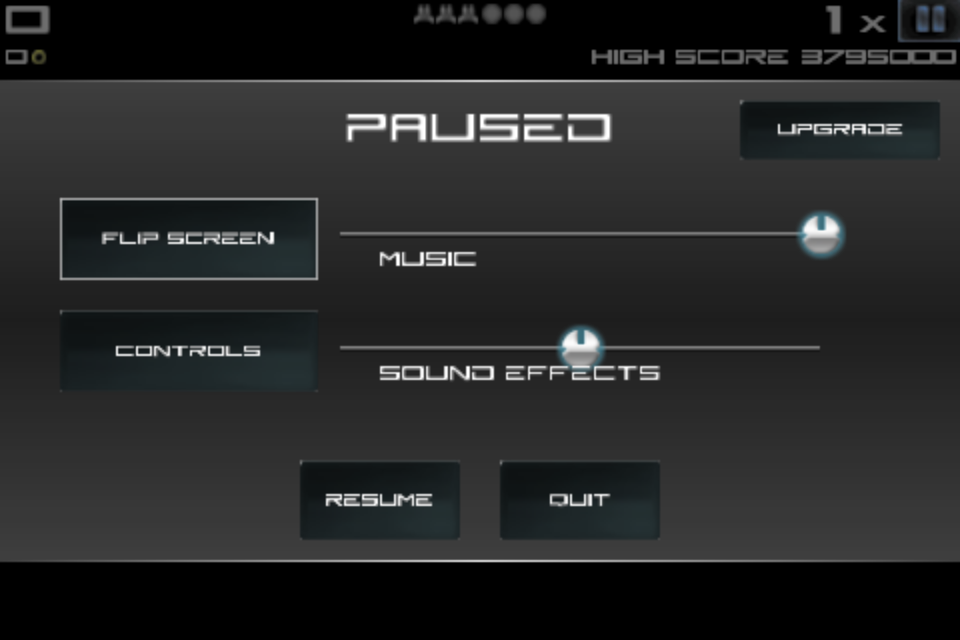
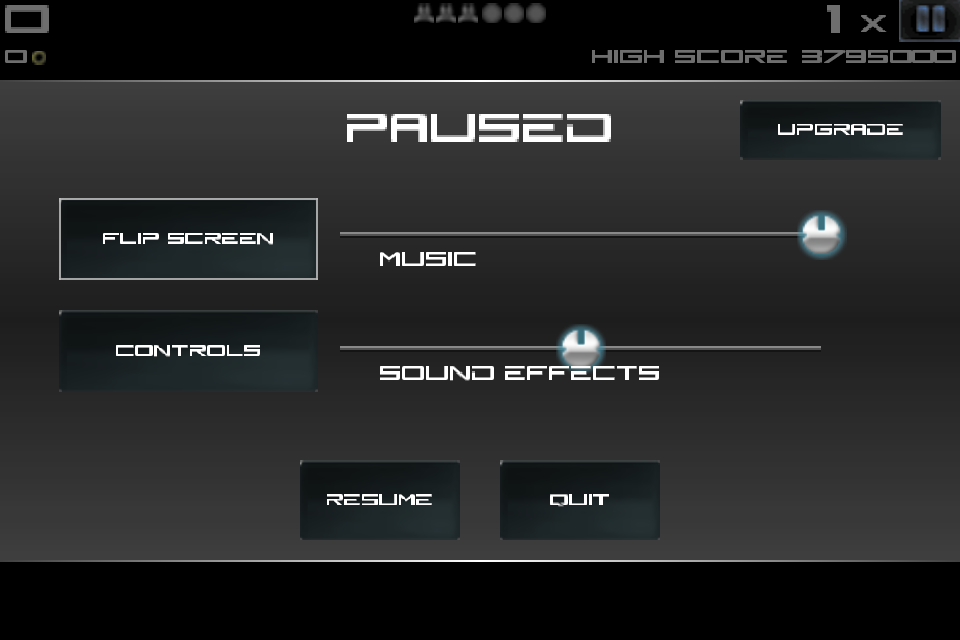
feat: render at the window's native resolution with crisp pixel text
The canvas renders at the fitted window scale with a 1:1 blit instead of upscaling 320x480; MB_RENDER_SCALE=1 keeps emulator comparisons. The font atlas is nearest-filtered (MB_FONT_FILTER=linear opts out). Screenshots refreshed.

diff --git a/src/gfx.rs b/src/gfx.rs
@@ -214,9 +214,29 @@ pub struct Canvas {
     flash: Material,
 }
 
+/// Resolution of the offscreen canvas relative to the original 480x320
+/// framebuffer. The default matches the window's fitted canvas so the blit
+/// is 1:1; MB_RENDER_SCALE pins it (1 keeps emulator comparisons exact).
+fn render_scale() -> f32 {
+    if let Ok(v) = std::env::var("MB_RENDER_SCALE") {
+        if let Ok(s) = v.parse::<f32>() {
+            return s.clamp(1.0, 6.0);
+        }
+    }
+    let fit = (screen_width() / CANVAS_W).min(screen_height() / CANVAS_H);
+    fit.clamp(1.0, 6.0)
+}
+
 impl Canvas {
     pub fn new() -> Canvas {
-        let target = render_target(FB_W as u32, FB_H as u32);
+        // Render at the window's canvas resolution instead of the original
+        // 320x480 framebuffer, so the final blit is 1:1 rather than an
+        // upscale. MB_RENDER_SCALE pins it (1 for pixel-perfect captures).
+        let scale = render_scale();
+        let target = render_target(
+            (FB_W * scale).round() as u32,
+            (FB_H * scale).round() as u32,
+        );
         target.texture.set_filter(FilterMode::Linear);
         let backdrop_material = load_material(
             ShaderSource::Glsl {

diff --git a/src/hud.rs b/src/hud.rs
@@ -40,6 +40,13 @@ const ONE_NUDGE: f32 = 5.0;
 
 impl Font {
     pub fn new(texture: Texture2D, dat: &[u8]) -> Font {
+        // The glyph atlas is pixel art; nearest keeps it crisp when the
+        // canvas is rendered above 480x320. MB_FONT_FILTER=linear opts out.
+        let filter = match std::env::var("MB_FONT_FILTER").as_deref() {
+            Ok("linear") => FilterMode::Linear,
+            _ => FilterMode::Nearest,
+        };
+        texture.set_filter(filter);
         let count = u16::from_le_bytes([dat[0], dat[1]]) as usize;
         let glyphs = (0..count)
             .map(|i| {

diff --git a/AGENTS.md b/AGENTS.md
@@ -37,6 +37,7 @@ Done (faithful to the binary unless noted):
 - Pause, controls, upgrade, clear and game-over popups from `PausePopup`: layouts and gradients match the decompiled draw code; keyboard/mouse navigation; upgrade shop; survival auto-upgrade toggle.
 - Deliberate change from the original: the planet backdrop scrolls at the play plane's screen speed, so rocks stay glued to the ground (`gfx::glued_scroll`). The original's rate let them slide.
 - Performance: the loop is paced at 60 Hz (the original's simulation rate); macOS controller polling no longer posts a LaunchServices KVO notification every frame.
+- Rendering: the offscreen canvas renders at the window's fitted resolution (1:1 blit) instead of upscaling the original 320x480 framebuffer; `MB_RENDER_SCALE` pins it (1 keeps emulator comparisons exact). The bitmap font uses nearest filtering so glyphs stay crisp above 480x320; `MB_FONT_FILTER=linear` opts out.
 - Stage advance keeps the run: `Play::advance_stage` starts the next stage in the same screen, carrying score, rings, upgrade points, upgrades, lives, bombs and multiplier, like the original's `GameScreen::handleEvent` next-stage case; only the stage's world state restarts.
 
 Approximations / not yet faithful:
@@ -63,6 +64,8 @@ Next:
 Test hooks (env):
 - `MB_START=w.s` starts a stage; `MB_WAVE=n` starts at wave n.
 - `MB_SHOT` and `MB_SHOT_FRAME` capture a frame and exit.
+- `MB_RENDER_SCALE=<n>` sets the canvas render scale (default: the window's fitted scale, capped at 6; 1 = the original 480x320 framebuffer).
+- `MB_FONT_FILTER=linear` switches the bitmap font back to linear filtering.
 - `MB_PAUSE=<menu|controls|upgrade|clear|gameover>` opens a pause page for screenshot runs; it starts stage 1.1 when no stage is running, so the popup draws over a game. `original/screenshots/emu/frame_00030.png` is the pause main-page reference.
 - `MB_LABEL_SCALE=<n>` pins the pause button label scale (default 0.4), for comparing label sizes against the emulator.
 - `MB_BG_BASE` / `MB_BG_DECAL_TEX` override the menu backdrop textures (defaults `space4deep`/`fogRed`), for comparing against emulator frames.

diff --git a/worklog/2026-10-28.md b/worklog/2026-10-28.md
@@ -193,3 +193,11 @@ Reported by the player: score and upgrades did not carry into the next round, an
 - Remaining: the emulator frame's unknown scroll phase and the PVRTC decode. The play-plane backdrop has no clean emulator frame yet, so it keeps the old axis mapping.
 
 - Refreshed the menu/scores/help screenshots for the new backdrop mapping.
+
+## Native-resolution rendering and crisp font
+
+- Canvas now renders at the window's fitted canvas resolution with a 1:1 blit instead of upscaling the original 320x480 framebuffer. `MB_RENDER_SCALE` pins it (1 keeps emulator comparisons exact); the fitted scale is capped at 6.
+- The bitmap font uses nearest filtering by default so glyphs stay crisp above 480x320; `MB_FONT_FILTER=linear` opts out.
+- Verified: at 960x640 the menu capture's mean |Laplacian| is 0.85 vs 0.68 for the old framebuffer upscale, and the pause "Resume" text region is 6.64 vs 5.66. At 480x320 the emulator diff stays at 7.59 (timing noise around the 7.54 best). The default 2560x1440 window renders at 4.5x and holds 60 fps (draw 0.20-0.23 ms).
+- Refreshed the six README screenshots at 960x640 with the new path.
+- Next: an SDF or higher-resolution font atlas for smooth high-res glyphs, then upscaling/redrawing terrain and sprites for real detail. The web build has not been re-tested after the target-size change.

diff --git a/README.md b/README.md
@@ -17,6 +17,7 @@ Playable end to end:
 - Cannon, fire and laser weapons, gravity gun, bombs, boost, rings, multiplier, power-ups and the upgrade shop.
 - Menus and the pause/controls/upgrade/clear/game-over popups, ported from `PausePopup`; settings persist across launches; local high-score tables with name entry; HELP/tutorial captions and in-game hints.
 - Keyboard/mouse and game controller input (Xbox pads on macOS through GameController and on Windows through XInput). The web build has no controller backend yet.
+- Native-resolution rendering: the canvas renders at the window's fitted resolution with a 1:1 blit, and the pixel font uses nearest filtering. The original 480×320 framebuffer stays available via `MB_RENDER_SCALE=1` for emulator comparisons.
 
 Verified against emulator frames: the main-menu buttons are pixel-exact, and the pause panel's bands, rules, button nine-slice and slider knob match the decompiled drawing and the emulator pause frame. `cargo test` covers the boss patterns, gravity gun, ground scroll, settings, scores, tutorial gates and stick menu navigation.
 
